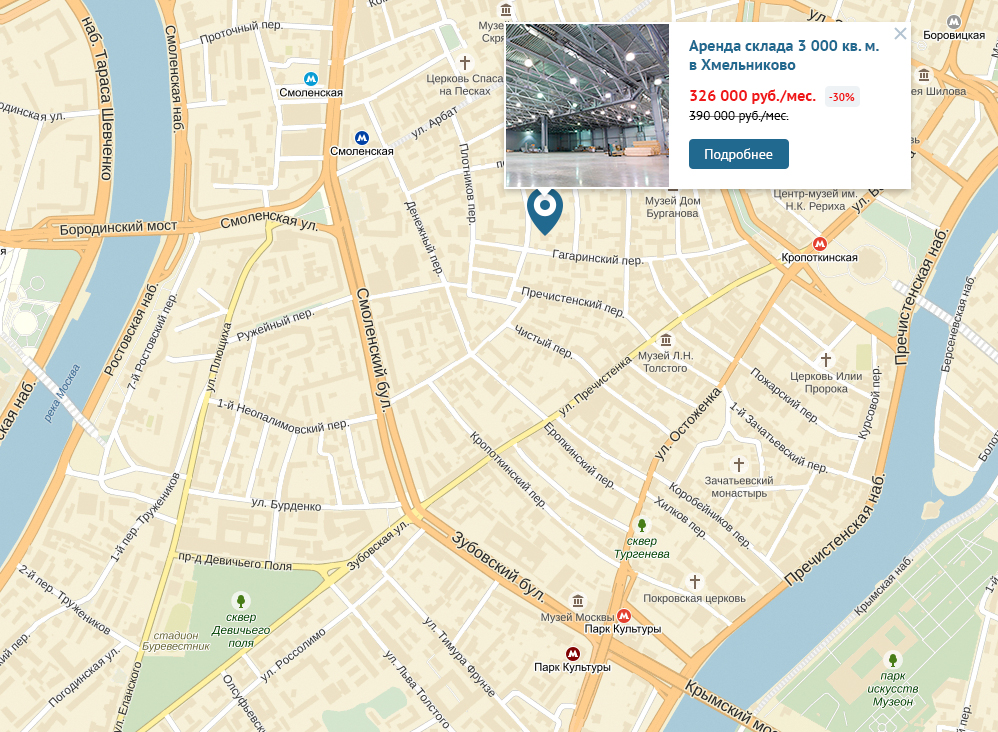
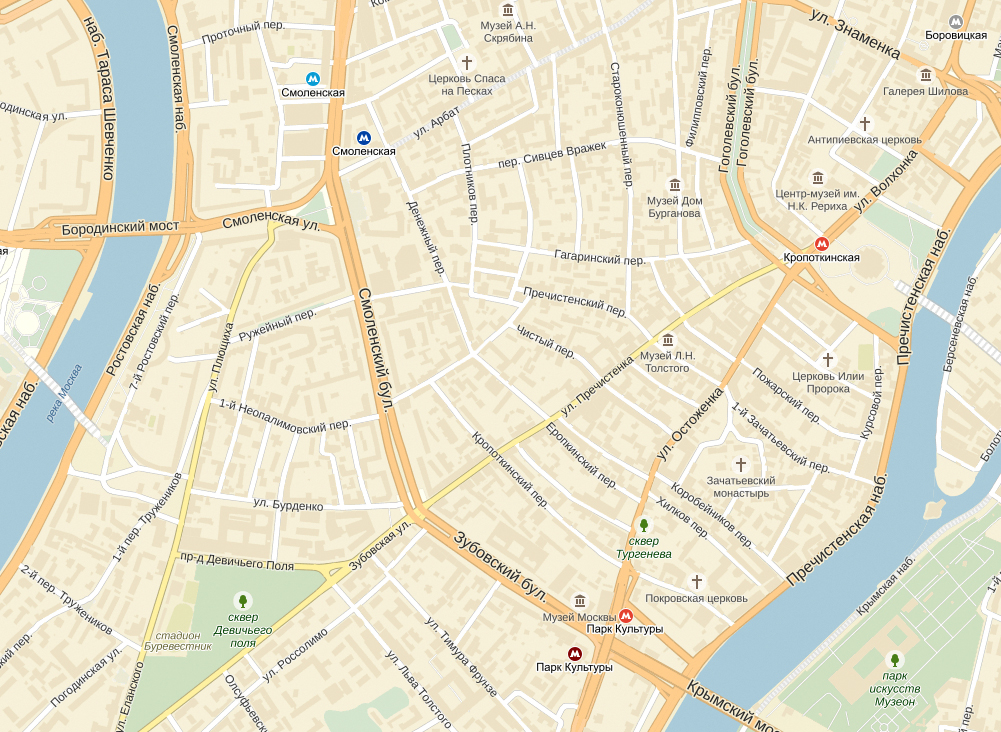
add maps label

diff --git a/css/main.css b/css/main.css
@@ -1332,6 +1332,7 @@ img {
 }
 .big-map {
   margin: 20px 0;
+  position: relative;
 }
 .modal-open {
   overflow: hidden;
@@ -1899,4 +1900,100 @@ img {
 }
 .city-list a:hover {
   text-decoration: underline;
+}
+.map-label {
+  position: absolute;
+  z-index: 2;
+  right: 45%;
+  top: 200px;
+}
+.map-label__text {
+  position: absolute;
+  top: -170px;
+  left: -20px;
+  z-index: 3;
+  width: 410px;
+  height: 170px;
+  padding: 2px;
+  background: #fff;
+  -webkit-box-shadow: 0px 3px 7px 0px rgba(0, 0, 0, 0.23);
+  box-shadow: 0px 3px 7px 0px rgba(0, 0, 0, 0.23);
+}
+.map-label__text:after {
+  content: "";
+  background: url(../images/arrow-label.png) no-repeat;
+  width: 15px;
+  height: 10px;
+  position: absolute;
+  z-index: 2;
+  bottom: -8px;
+  left: 30px;
+}
+.map-label__img {
+  height: 166px;
+  background-repeat: no-repeat;
+  background-position: 50%;
+  -o-background-size: cover;
+  background-size: cover;
+  width: 160px;
+  float: left;
+}
+.map-label__descr {
+  float: left;
+  width: 245px;
+  padding: 0 21px;
+  height: 166px;
+  line-height: 1.2;
+}
+.map-label__title {
+  font-size: 16px;
+  color: #42698c;
+  font-family: 'PtSansBold';
+  margin-bottom: 10px;
+}
+.map-label__sale {
+  display: inline-block;
+  vertical-align: middle;
+  font-size: 11px;
+  color: #cc1e1f;
+  -webkit-border-radius: 5px;
+  border-radius: 5px;
+  background: #eff2f5;
+  height: 20px;
+  line-height: 20px;
+  padding: 0 5px;
+}
+.map-label__today-price {
+  margin-bottom: 5px;
+}
+.map-label__prev-price {
+  text-decoration: line-through;
+  font-size: 13px;
+  margin-bottom: 15px;
+}
+.map-label__more {
+  display: block;
+  width: 100px;
+  height: 30px;
+  line-height: 30px;
+  text-align: center;
+  color: #fff;
+  -webkit-border-radius: 4px;
+  border-radius: 4px;
+  background: #42698c;
+  font-size: 14px;
+}
+.map-label__close {
+  position: absolute;
+  z-index: 2;
+  right: 5px;
+  top: 5px;
+}
+.today-price__info {
+  font-size: 16px;
+  color: #cc1e1f;
+  font-family: 'PtSansBold';
+  display: inline-block;
+  vertical-align: middle;
+  margin-right: 5px;
 }

diff --git a/map.html b/map.html
@@ -396,6 +396,32 @@
 			</div>
 			<div class="big-map">
 				<img src="images/big-map.jpg" height="732" width="998" alt="">
+				<div class="map-label">
+					<span class="map-label__icon">
+						<img src="images/marker.png" alt="">
+					</span>
+					<div class="map-label__text clearfix">
+						<a href="#" class="map-label__close">
+							<img src="images/close-label.png" alt="">
+						</a>
+						<div class="map-label__img" style="background-image: url(images/object.jpg)"></div>
+						<div class="map-label__descr">
+							<div class="table-block">
+								<div class="block-vertical">
+									<div class="map-label__title">Аренда склада 3 000 кв. м. в Хмельниково</div>
+									<div class="map-label__today-price">
+										<span class="today-price__info">326 000 руб./мес.</span>
+										<span class="map-label__sale">-30%</span>
+									</div>
+									<div class="map-label__prev-price">
+										390 000 руб./мес.
+									</div>
+									<a href="#" class="map-label__more">Подробнее</a>
+								</div>
+							</div>
+						</div>
+					</div>
+				</div>
 			</div>
 			<div class="subscribe clearfix">
 				<div class="text">Прошу сообщать мне о появлении новых зданий соответствующих моим требованиям</div>
